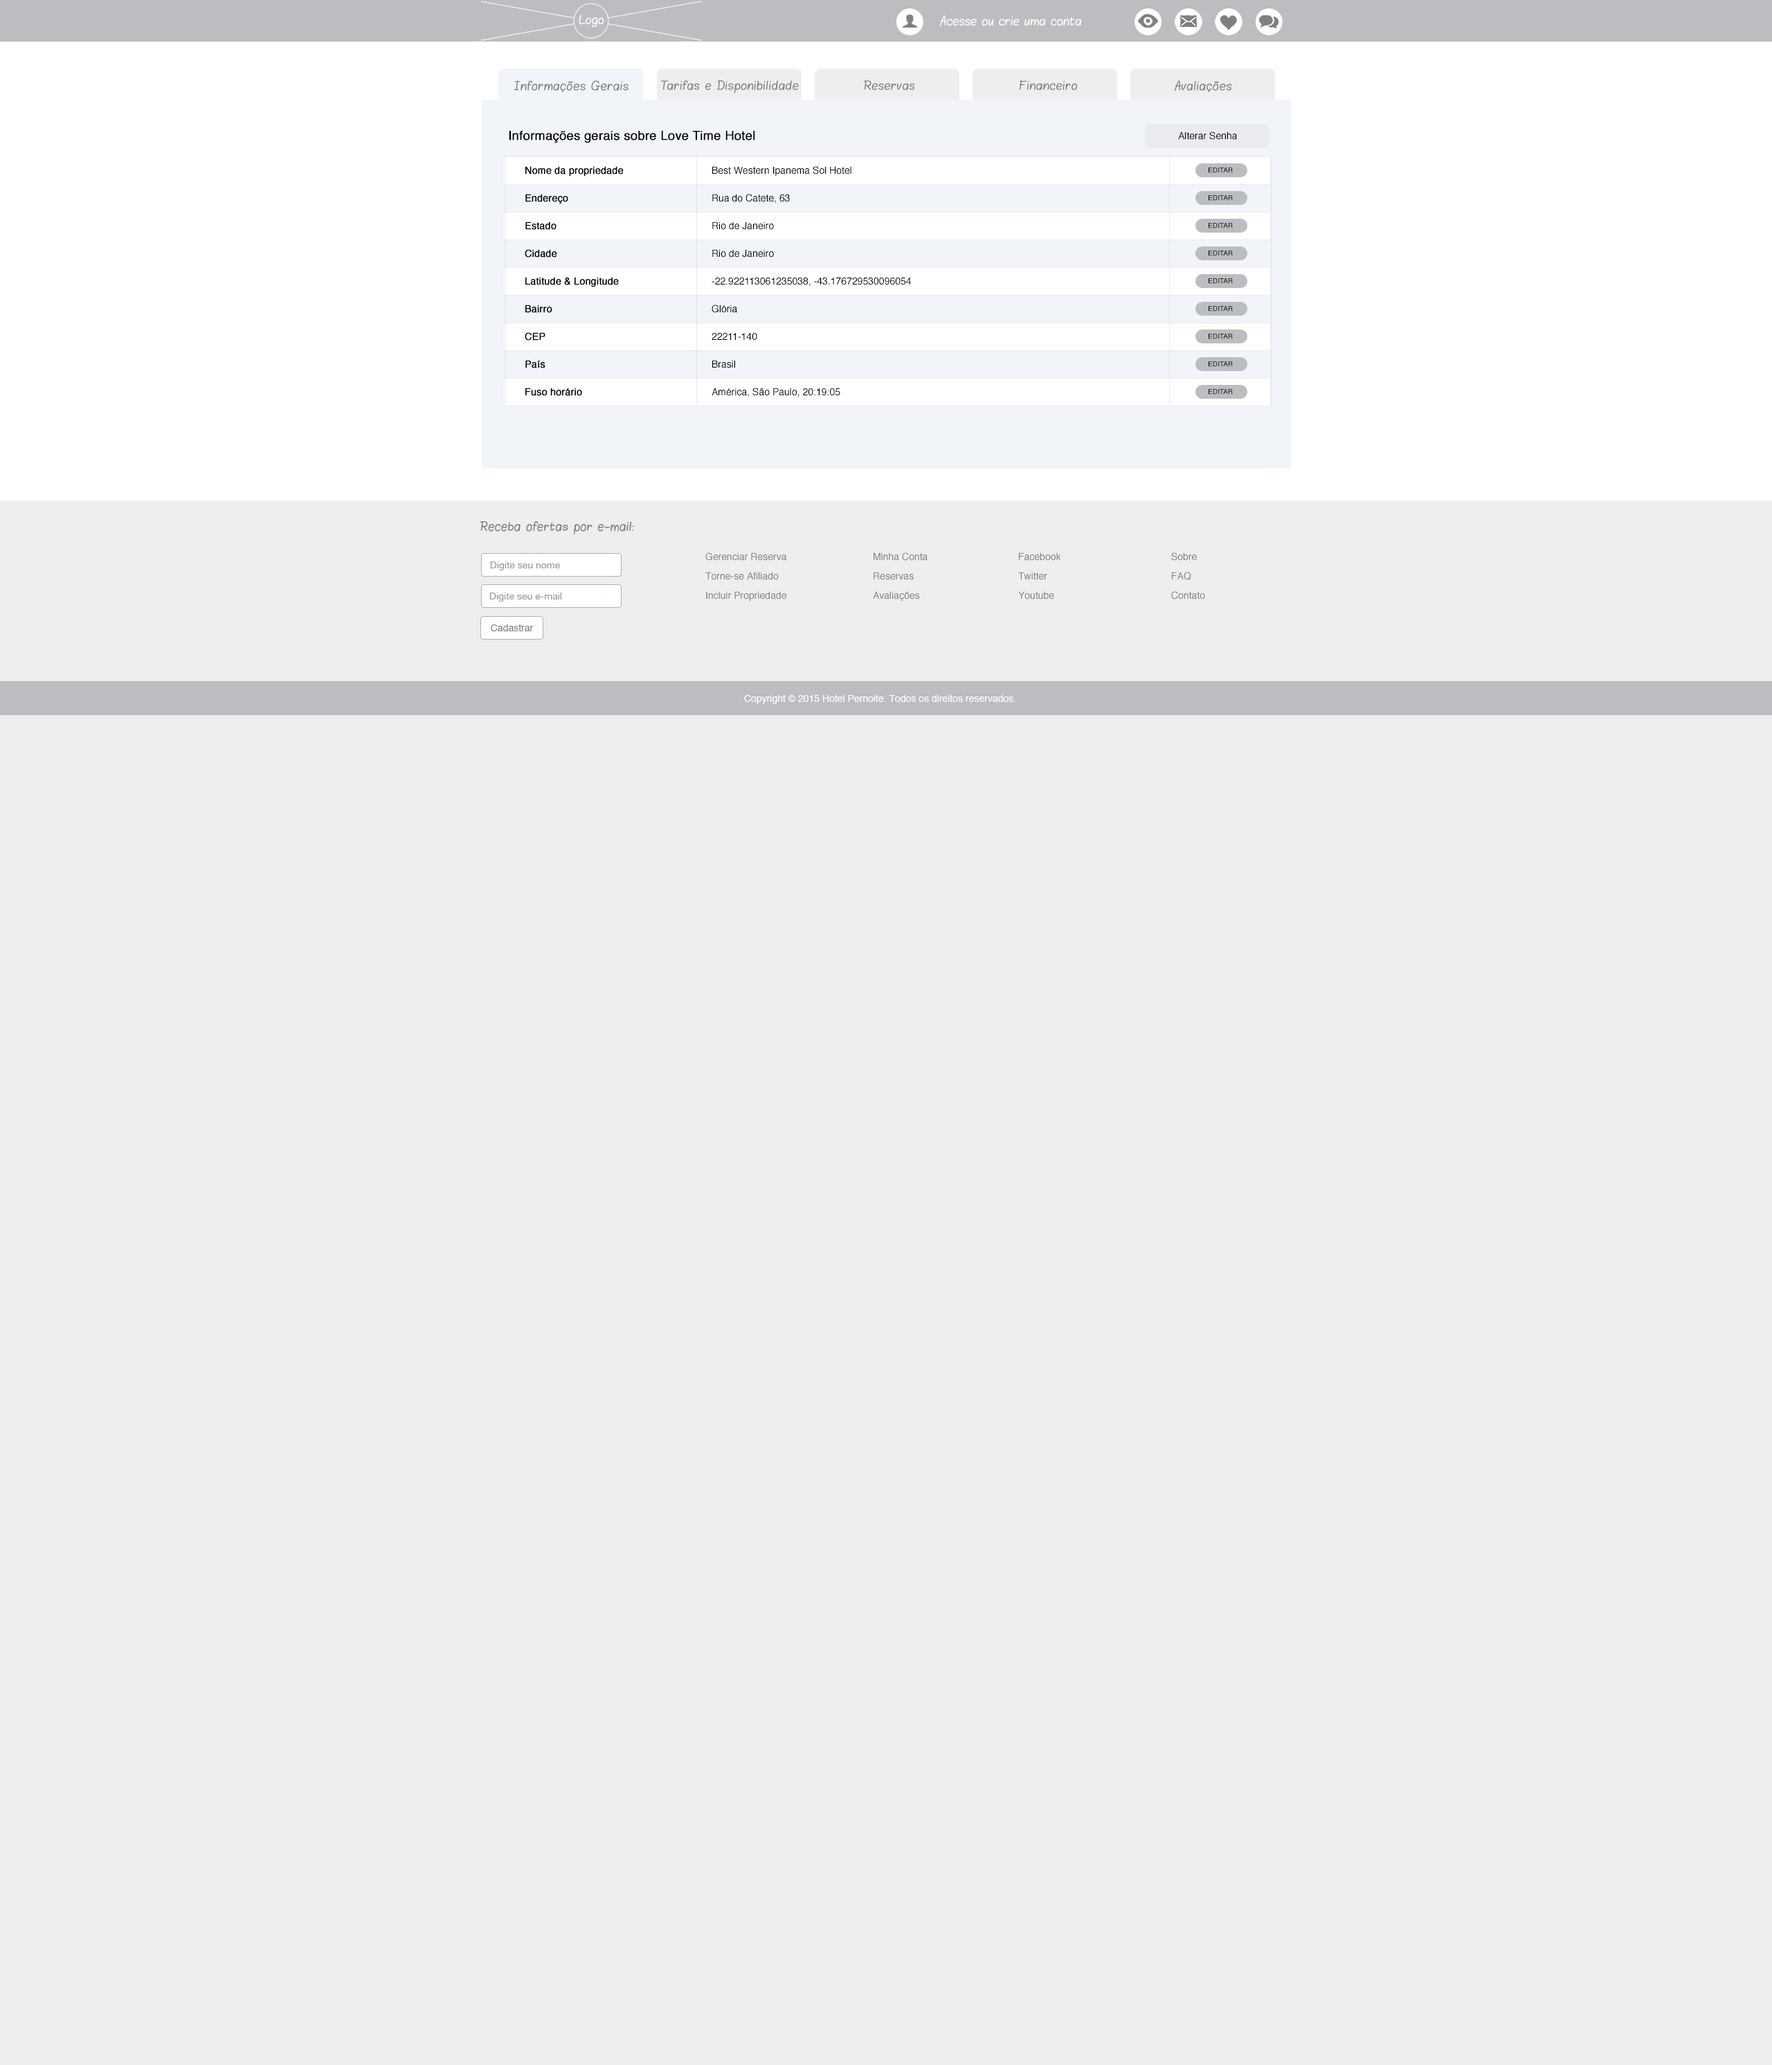
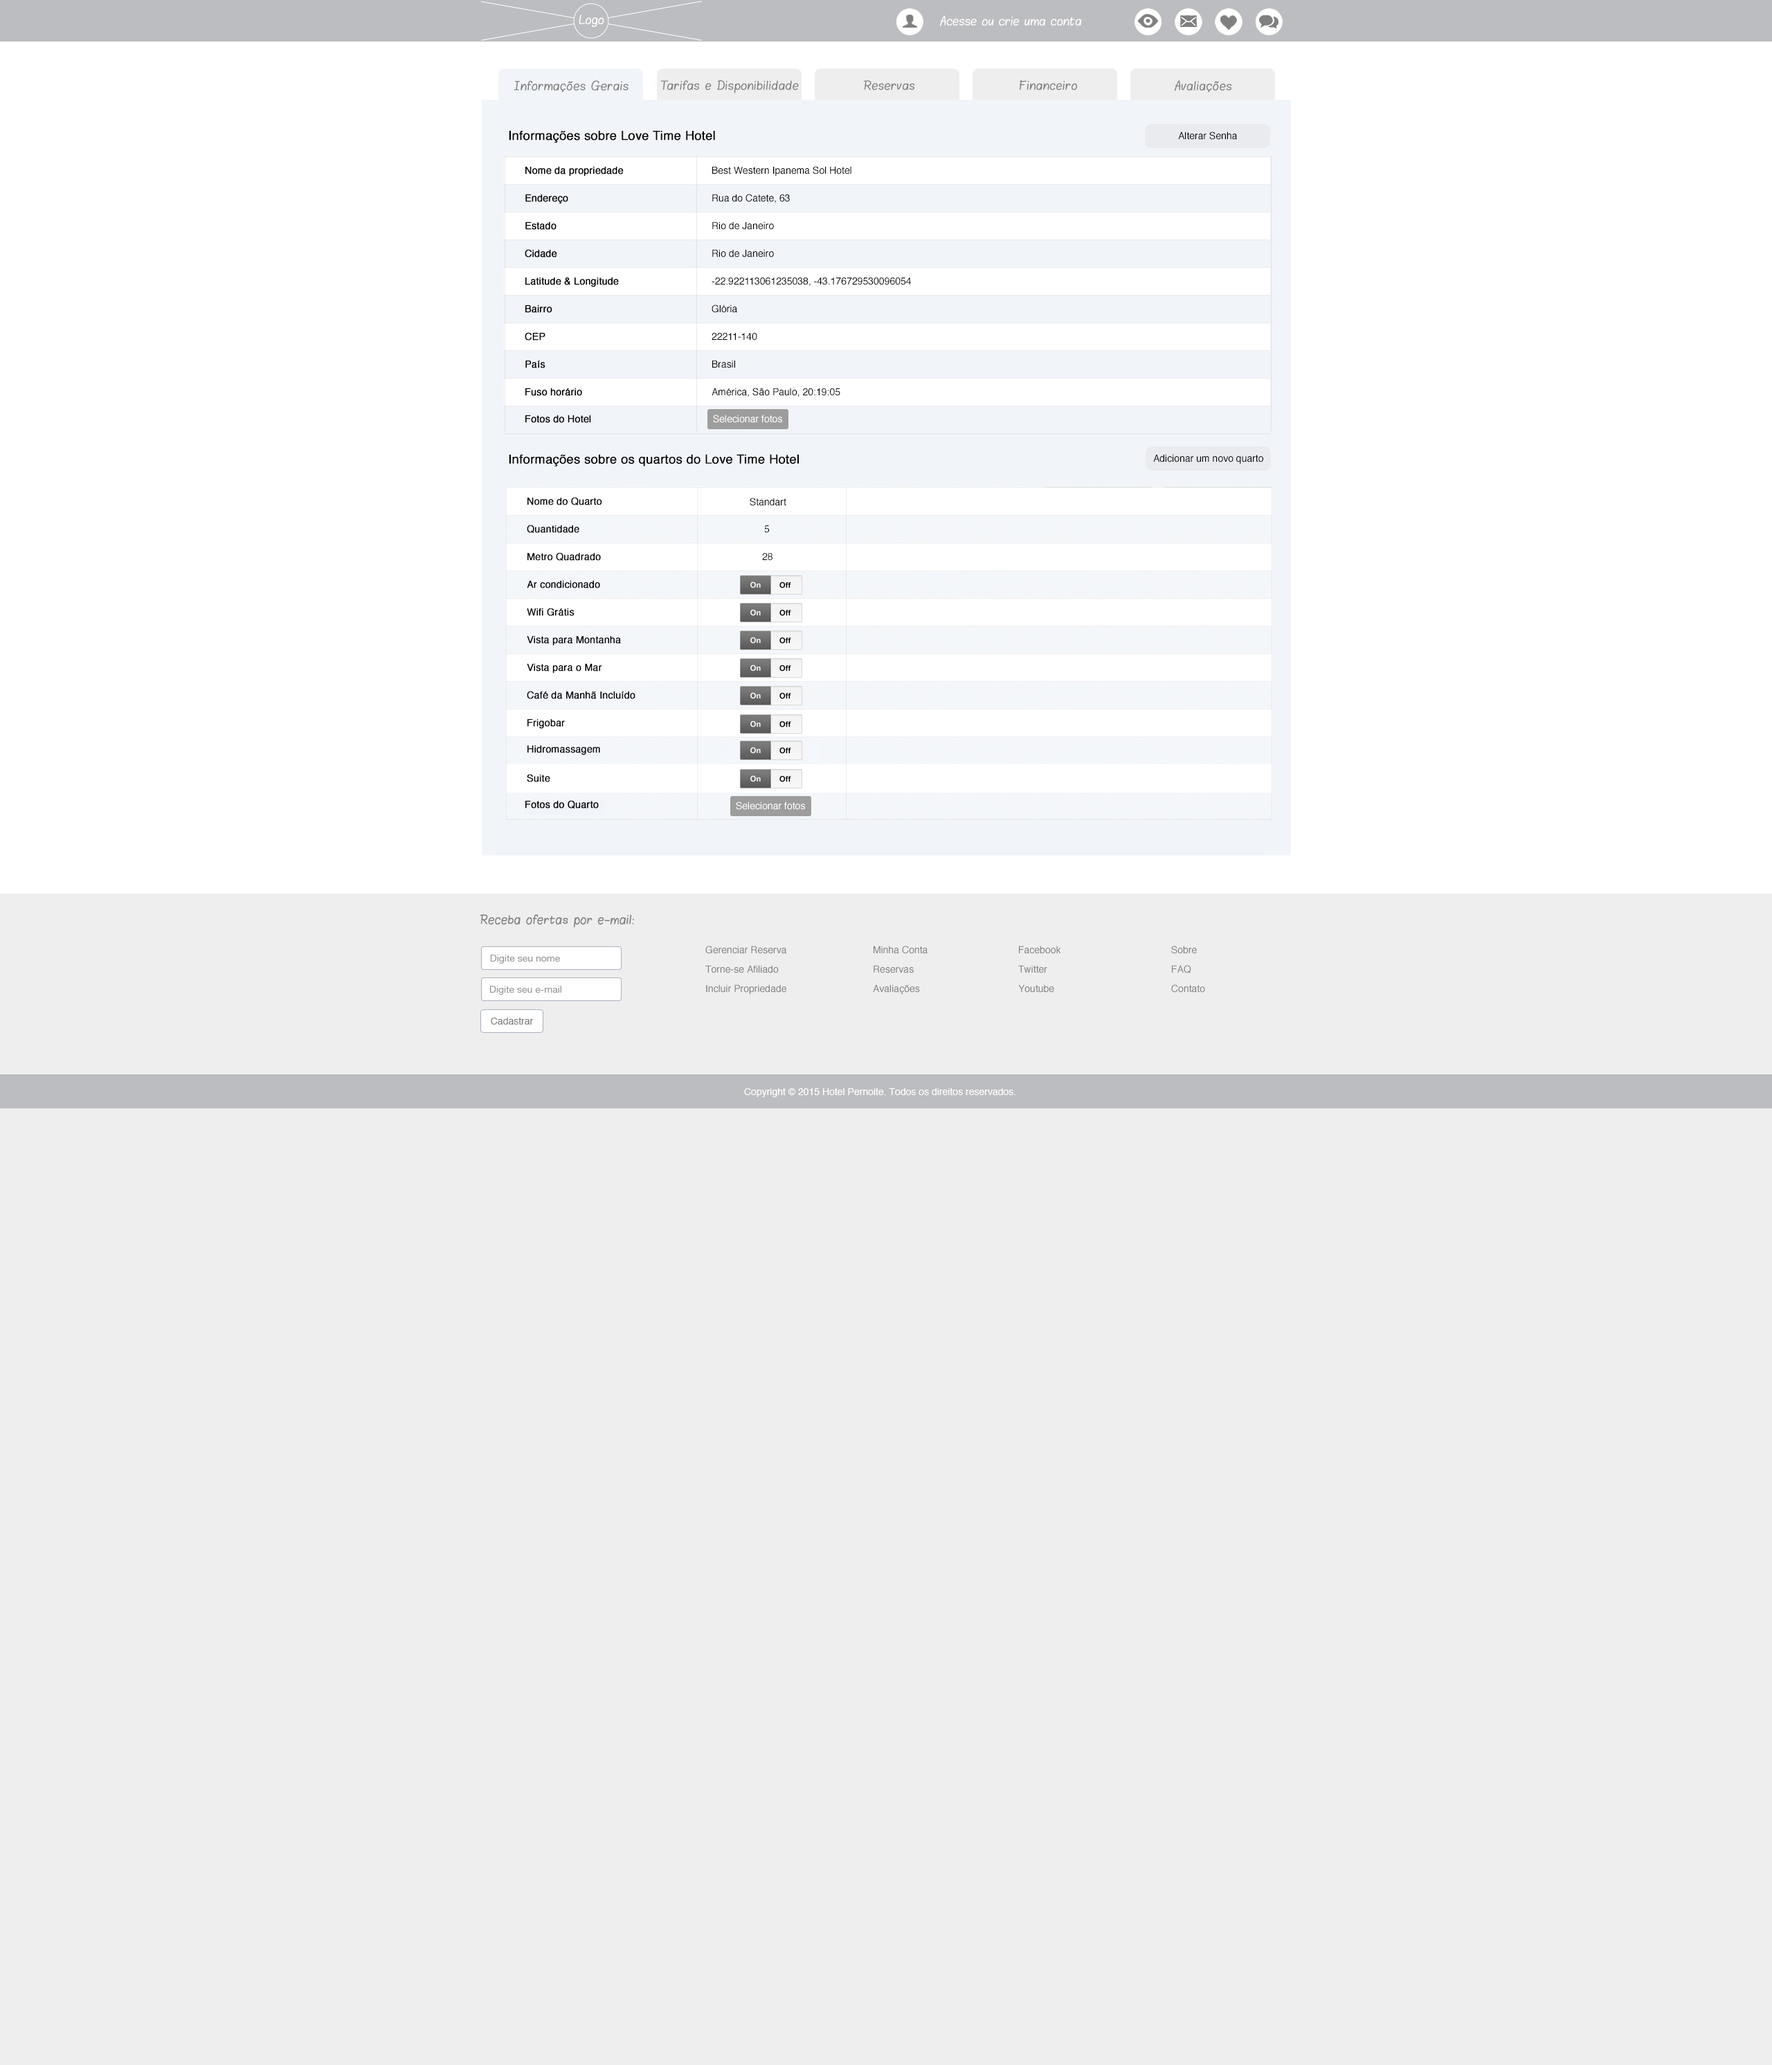
upgrade tela 10 e 11

diff --git a/pernoite/css/style.css b/pernoite/css/style.css
@@ -29,8 +29,8 @@ p				{  }
 .sete			{ height: 1555px; background-image: url(../images/07.jpg); background-position: top center; }
 .oito			{ height: 1033px; background-image: url(../images/08.jpg); background-position: top center; }
 .nove			{ height: 1033px; background-image: url(../images/09.jpg); background-position: top center; }
-.dez			{ height: 1033px; background-image: url(../images/10.jpg); background-position: top center; }
-.onze			{ height: 849px; background-image: url(../images/11.jpg); background-position: top center; }
+.dez			{ height: 1600px; background-image: url(../images/10.jpg); background-position: top center; }
+.onze			{ height: 1420px; background-image: url(../images/11.jpg); background-position: top center; }
 .doze			{ height: 1218px; background-image: url(../images/12.jpg); background-position: top center; }
 .treze			{ height: 1085px; background-image: url(../images/13.jpg); background-position: top center; }
 .quatorze		{ height: 906px; background-image: url(../images/14.jpg); background-position: top center; }

diff --git a/pernoite/14.html b/pernoite/14.html
@@ -13,7 +13,7 @@
 
 
 
-<!--total--><div id="total" class="quatorze"></div><!--total-->
+<!--total--><div id="total" class="dezesseis"></div><!--total-->
 
 
 

diff --git a/pernoite/12.html b/pernoite/12.html
@@ -13,7 +13,7 @@
 
 
 
-<!--total--><div id="total" class="doze"></div><!--total-->
+<!--total--><div id="total" class="quatorze"></div><!--total-->
 
 
 

diff --git a/pernoite/13.html b/pernoite/13.html
@@ -13,7 +13,7 @@
 
 
 
-<!--total--><div id="total" class="treze"></div><!--total-->
+<!--total--><div id="total" class="quinze"></div><!--total-->
 
 
 
